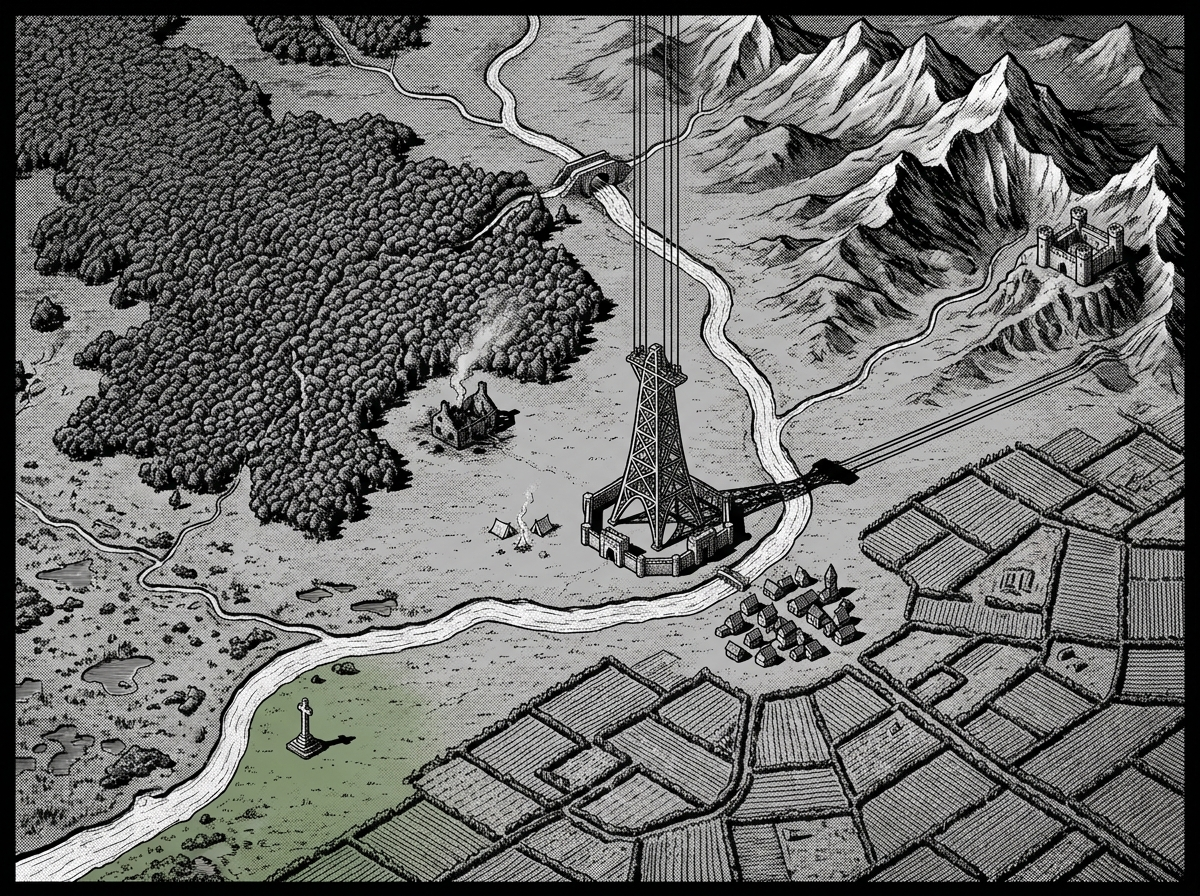
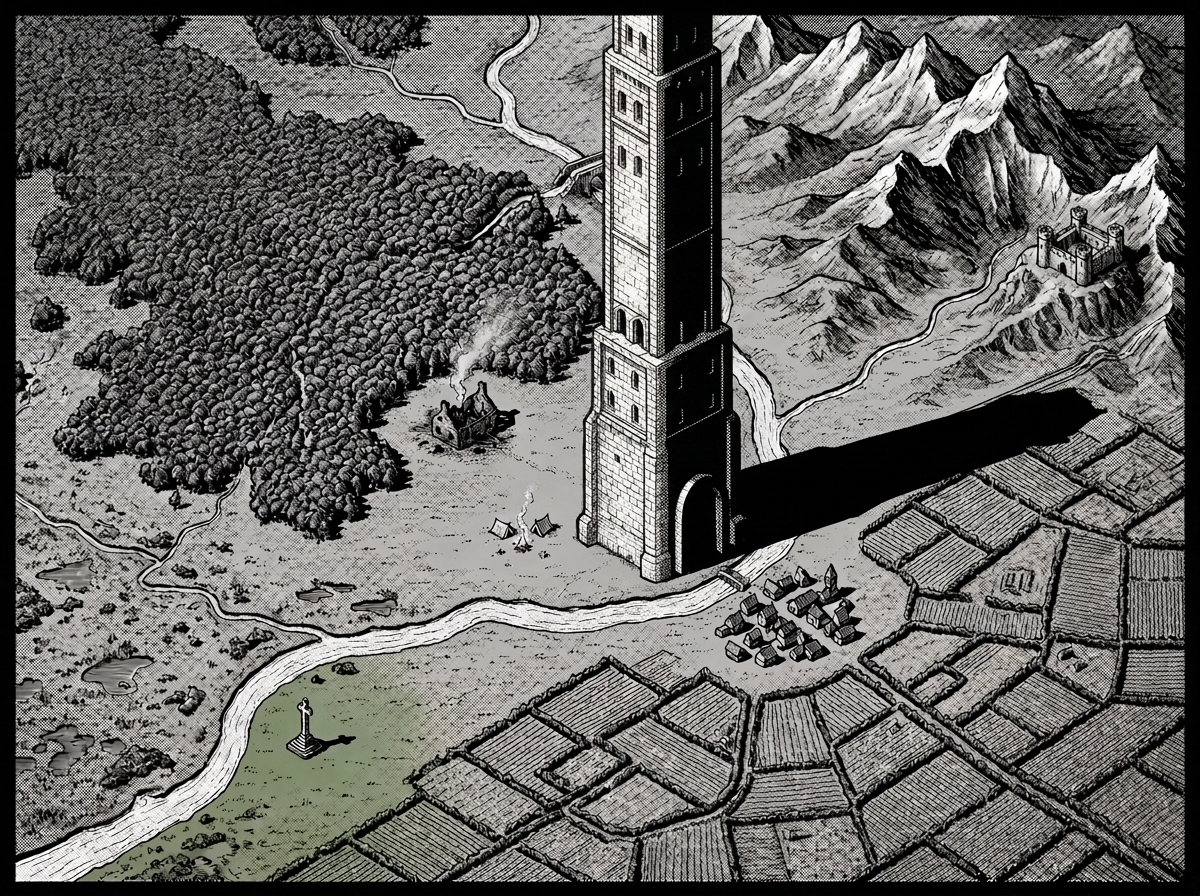
082 phase-1b executed — vendor sync 0.107.0, plugin pointer -> 1d461e3, dojo run 0055 32/32 PASS
Full-bleed 492x369 map card (art+prose shed, eyebrow under the map),
massive gate tower art, ROOTHOLLOW at the tower's foot, npc-card lock
bug fixed. Targeted tests 10/10; plugin suite 1410/7-pre-existing.
Mock re-pointed at the new art. Deploy not requested.

diff --git a/worldd/plans/082-floor-maps/mock-map/index.html b/worldd/plans/082-floor-maps/mock-map/index.html
@@ -168,36 +168,36 @@
       <p class="meter xp"><span class="lab">XP </span><span class="blocks">▓▓▓░░░░░░░</span> <span class="val">Lv 3</span></p>
     </div>
 
-    <!-- the Fencerows — model-painted, forced 1-bit (map_gen.py), 640x480
+    <!-- the Fencerows — model-painted, forced 1-bit (map_gen.py), 492x369 (77%, roy)
          native shown 1:1. Every option IS a marker on the map. -->
     <div class="mapwrap">
-      <img src="map_001_640x480.png" alt="Map of Floor 1 — the Fencerows"
-           width="640" height="480">
-      <div class="mk plain" style="left:55%; top:44%">[1] GATE
+      <img src="map_001_492x369.png" alt="Map of Floor 1 — the Fencerows"
+           width="492" height="369">
+      <div class="mk plain" style="left:54%; top:40%">[1] GATE
         <span class="tip">The elevator between floors — ride up or down.</span></div>
-      <div class="mk plain" style="left:67%; top:66%">[2] TOWN
+      <div class="mk plain" style="left:58%; top:64%">[2] ROOTHOLLOW
         <span class="tip">Down to Roothollow — shops, forge, bank.</span></div>
-      <div class="mk" style="left:44%; top:16%">[3] SLUICE
+      <div class="mk" style="left:47%; top:14%">[3] SLUICE
         <span class="tip tl"><b>Quest · easy</b> — kill the thing in the
         sluice-arch. A short path, few enemies. Loot: coin and
         salves.</span></div>
-      <div class="mk" style="left:36%; top:44%">[4] HEARTH
+      <div class="mk" style="left:39%; top:49%">[4] HEARTH
         <span class="tip tl"><b>Quest · medium</b> — take the hearth-shard
         back from the troll and its goblins. As hard as the
         warden.</span></div>
-      <div class="mk sel" style="left:22%; top:74%">[5] WYRM
+      <div class="mk sel" style="left:12%; top:72%">[5] WYRM
         <span class="tip tl"><b>Quest · hard</b> — hunt the dragon for its
         loot. Many enemies, hardship, a dragon hard to defeat.</span></div>
-      <div class="mk plain" style="left:66%; top:86%">[6] HUNT
+      <div class="mk plain" style="left:72%; top:84%">[6] HUNT
         <span class="tip tl">The near fields — hunt for coin and XP.
         1 ⚡.</span></div>
-      <div class="mk plain" style="left:12%; top:38%">[7] HARD-HUNT
+      <div class="mk plain" style="left:18%; top:20%">[7] HARD-HUNT
         <span class="tip">The deep wilds — stronger monsters, richer pay.
         2 ⚡.</span></div>
-      <div class="mk plain" style="left:88%; top:28%">[8] BRACKJAW
+      <div class="mk plain" style="left:90%; top:31%">[8] BRACKJAW
         <span class="tip tr">The warden — beat him to open the floor above.
         3 ⚡ a swing.</span></div>
-      <div class="mk plain" style="left:46%; top:58%">[9] CAMP
+      <div class="mk plain" style="left:44%; top:63%">[9] CAMP
         <span class="tip">The fire — healer, stew, and Hobb Fennick's
         talk.</span></div>
     </div>

diff --git a/worldd/plans/082-floor-maps/mock-map/map_gen.py b/worldd/plans/082-floor-maps/mock-map/map_gen.py
@@ -17,12 +17,12 @@ Labels/markers are NEVER in the pixels — the mock overlays them as HTML
 (the scene is dithered, the UI is typography).
 
 Usage: python3 map_gen.py   (needs raw_map.png beside it)
-       -> map_001_640x480.png
+       -> map_001_492x369.png
 """
 
 from PIL import Image, ImageOps
 
-W, H = 640, 480
+W, H = 492, 369   # phase-1b (roy): 77% of 640x480
 INK = (217, 217, 211, 255)      # --art
 
 BAYER = [
@@ -33,6 +33,11 @@ BAYER = [
 ]
 
 img = Image.open("raw_map.png").convert("L")
+# phase-1b: the model paints a decorative black frame — trim it before
+# the crop so the frame never eats map real estate.
+_bb = img.point(lambda p: 255 if p > 40 else 0).getbbox()
+if _bb:
+    img = img.crop(_bb)
 w, h = img.size
 target = W / H
 if w / h > target:
@@ -46,7 +51,7 @@ img = ImageOps.autocontrast(img, cutoff=1)   # keep the gradient ramps wide
 # The model paints on light-grey paper; the game is ink on black. Gamma
 # pushes the flat mid-grey ground down to sparse dither while lit faces,
 # the stream and the glow pools stay bright.
-img = img.point(lambda p: int(255 * (p / 255) ** 1.6))
+img = img.point(lambda p: int(255 * (p / 255) ** 1.45))
 
 out = Image.new("RGBA", (W, H), (0, 0, 0, 255))
 po = out.load()
@@ -56,5 +61,5 @@ for y in range(H):
         if pi[x, y] / 255 > (BAYER[y % 8][x % 8] + 0.5) / 64:
             po[x, y] = INK
 
-out.save("map_001_640x480.png")
-print("wrote map_001_640x480.png")
+out.save("map_001_492x369.png")
+print("wrote map_001_492x369.png")

diff --git a/dojo/results/0055-082-floormap-1b-2026-08-26/summary.md b/dojo/results/0055-082-floormap-1b-2026-08-26/summary.md
@@ -1,0 +1,36 @@
+# Dojo run 0055 — 082 phase-1b: floormap review fixes
+
+- **Date:** 2026-08-26
+- **Scenario:** `luna/dojo/tests/082-floor-maps/scenario.md` (walkthrough.mjs, phase-1b revision)
+- **Environment:** local worldd (uvicorn :8600), Postgres 16 docker :5434,
+  vendor plugin = the phase-1b tree (ran labeled 0.106.0; shipped as
+  0.107.0 — 0.106.0 was taken by a parallel 084 commit; only the version
+  string differs), monorepo `edf1549` (phase-1b changes uncommitted at
+  run time; committed immediately after)
+- **Player:** web:dojomap668116, seeded floor 1, warrior L3
+- **Verdict:** **PASS — 32/32 checks**
+
+## What phase-1b changed (all verified this run)
+
+| Change | Check | Evidence |
+|--------|-------|----------|
+| Mapped card sheds floor art + headline + support + body; eyebrow bar rides under the map | S4 | `{banner:false, headline:false, support:false, order:true}` |
+| Map full card width, no border | S4 | img 734px vs card 736px |
+| 77% resolution | S4 | natural size 492×369 |
+| Town chip renamed and moved to the tower's foot | S4 | `[5] ROOTHOLLOW` |
+| Gate lobby row renamed | S7 | "Back to Roothollow" |
+| Bug fix: Hobb card keeps plain rows, no map (was: map swallowed the rows, locking the player) | S6 | `{head:"Hobb Fennick — the last farmer", map:false, opts:[hunt,keep,talk,gate,town]}` |
+| New art: massive built tower with massive door as the gate | screenshots | 03-map-on.png |
+
+## Full check list
+
+32/32 PASS: signup+seed, list-off, labs toggle both ways with DB flag,
+map card (size, bleed, shed prose, chips, labels, cost inks, no dead
+deep-hunt, chip-or-row-never-both), tooltip hover, Hobb rows + return,
+gate lobby + back-row label + ride up, Roothollow round trip, hunt
+(encounter, exactly 1 ⚡, flee out and back), Brackjaw keep (free entry,
+leave, back at map), labs off restores the list, no console errors.
+
+## Artifacts
+
+`screenshots/01…10`, `checks.json`.

diff --git a/worldd/plans/082-floor-maps/level001-plan/phase-1b/PLAN.md b/worldd/plans/082-floor-maps/level001-plan/phase-1b/PLAN.md
@@ -62,4 +62,26 @@ re-sync. No player-doc migration.
 
 ## Execution status
 
-(appended after execution)
+Executed 2026-08-26. Shipped in plugin 0.107.0 (0.106.0 was taken by a parallel 084 commit); vendor synced.
+
+- **Correction to step 1:** `_gate_town_scene` is the camp's
+  steady-state card (loc `gate_town`), not the base town — its seam
+  STAYS. Only the `_npc_scene` seam came out (that was the lock bug).
+- **Art:** two Gemini passes on the existing raw (tower swap, then a
+  relight so the tower survives 1-bit: near-white lit face, dark
+  shadow side, black door arch). `map_gen.py` now trims the painted
+  frame, gamma 1.45, 492×369 (77%). Asset renamed
+  `map_001_492x369.png`; markers re-placed (gate 54,40; town→ROOTHOLLOW
+  58,64 at the door; talk 44,63; keep 90,31; hunt 72,84; deep 18,20).
+- **Tests:** `test_082_floormap.py` 10/10 (two new: npc-no-map,
+  shed-art-and-prose). Plugin suite 1410 passed / 7 failed — all in the
+  known pre-existing flaky set (kill3d ×3, 017 ×2, 022, 048); none touch
+  the map paths. worldd suite not re-run (no worldd/app change beyond
+  vendor; 221/0 in phase-1 same day).
+- **Dojo:** run 0055 (`dojo/results/0055-082-floormap-1b-2026-08-26/`)
+  **32/32 PASS** — full-bleed 492×369 map (img 734px on a 736px card),
+  no banner/headline/support/body, eyebrow under the map, ROOTHOLLOW
+  chip at the tower's foot, "Back to Roothollow" in the lobby, Hobb card
+  with plain rows and no map, hunt exactly 1 ⚡, keep free, no console
+  errors.
+- Deploy not requested.
